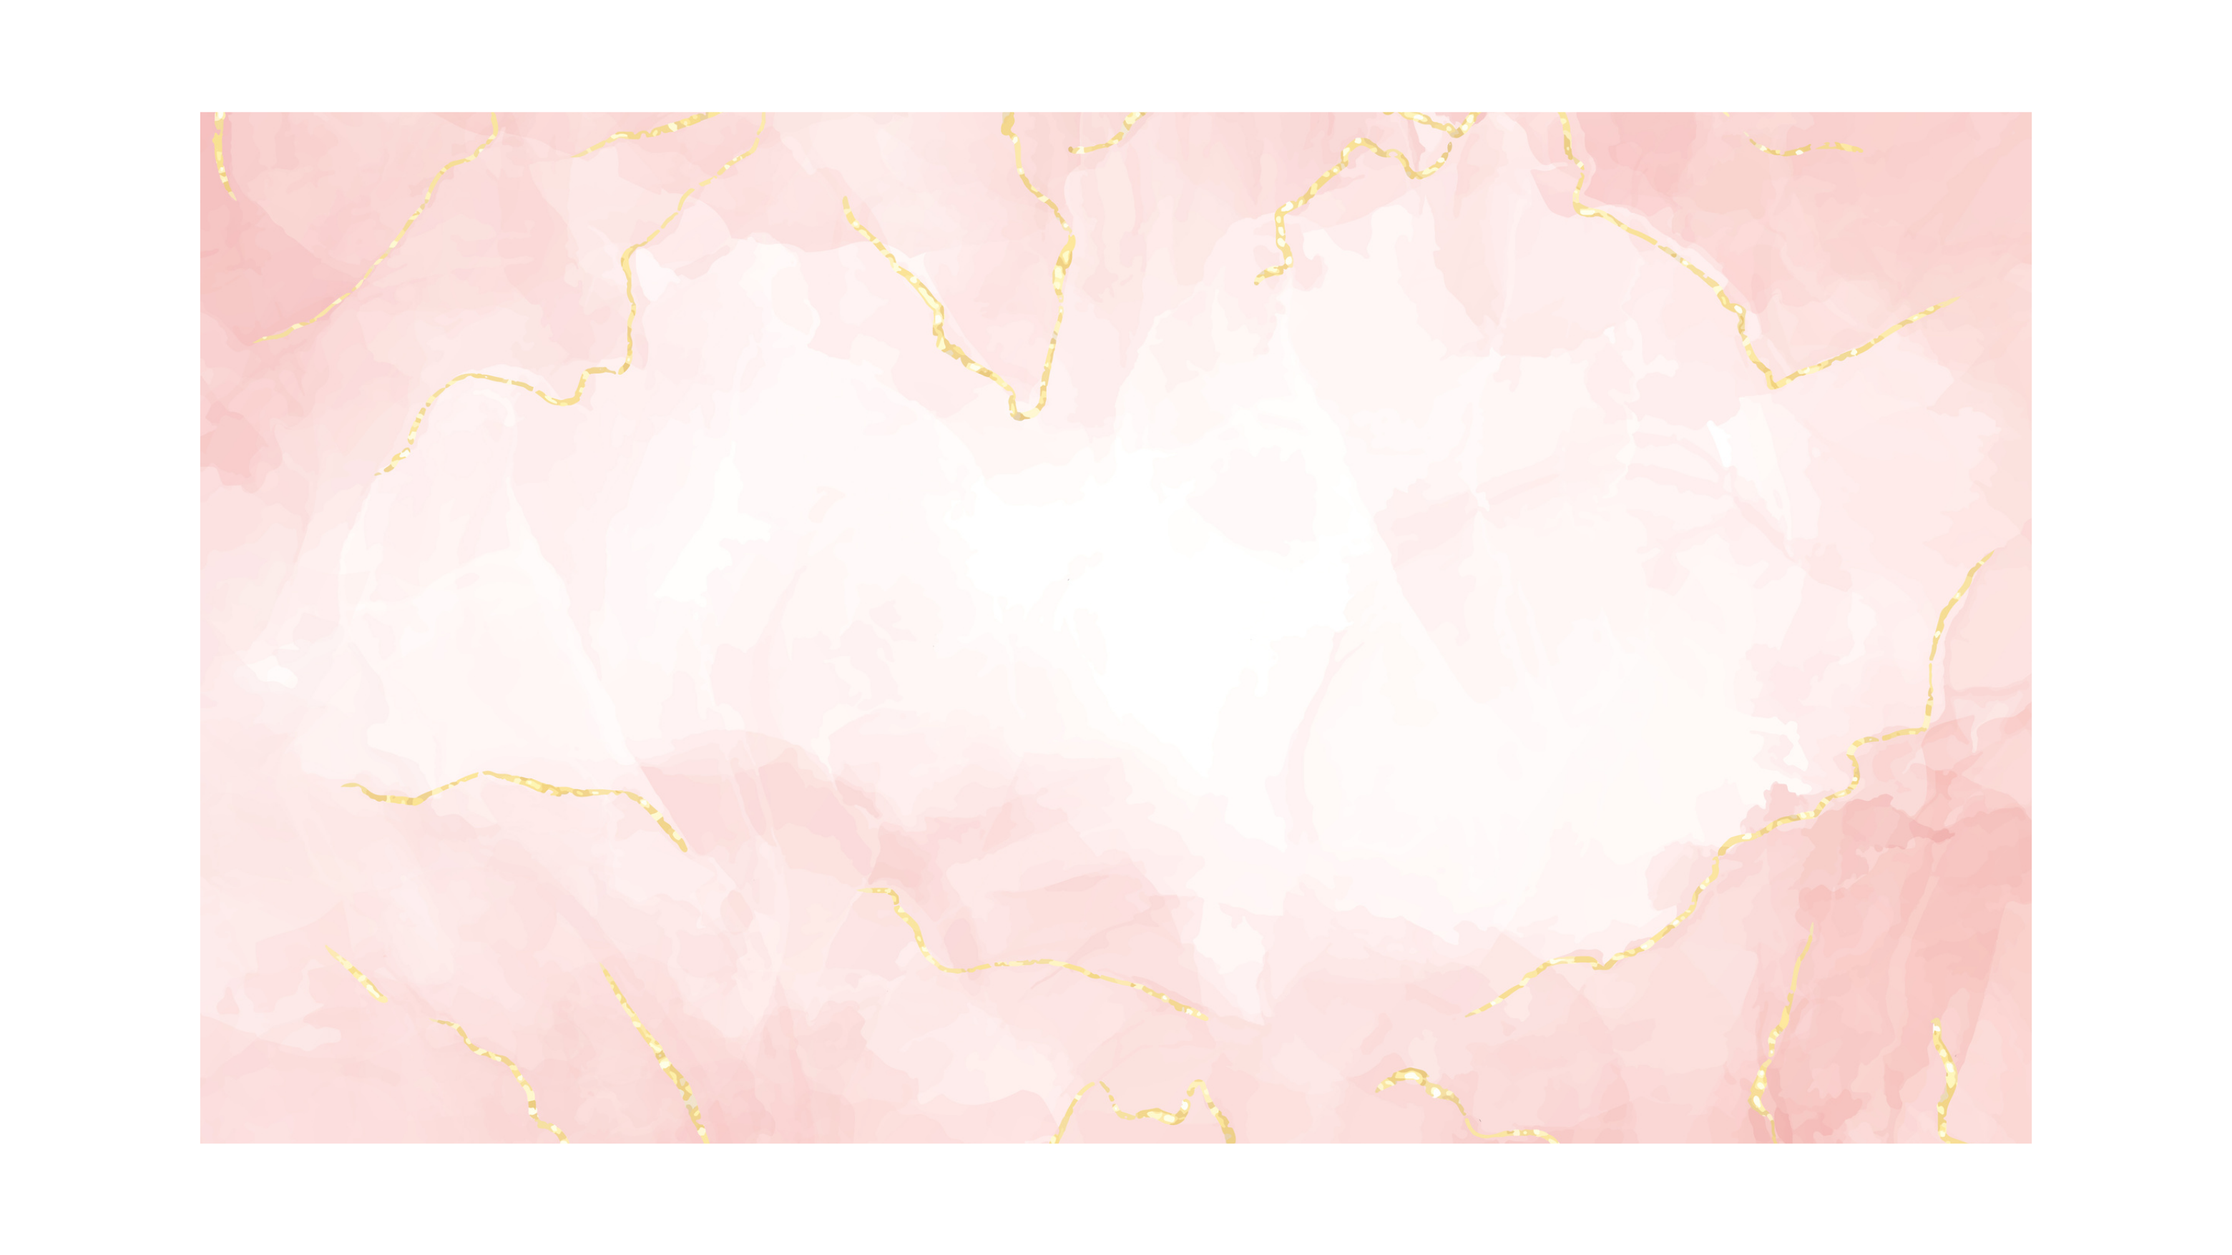
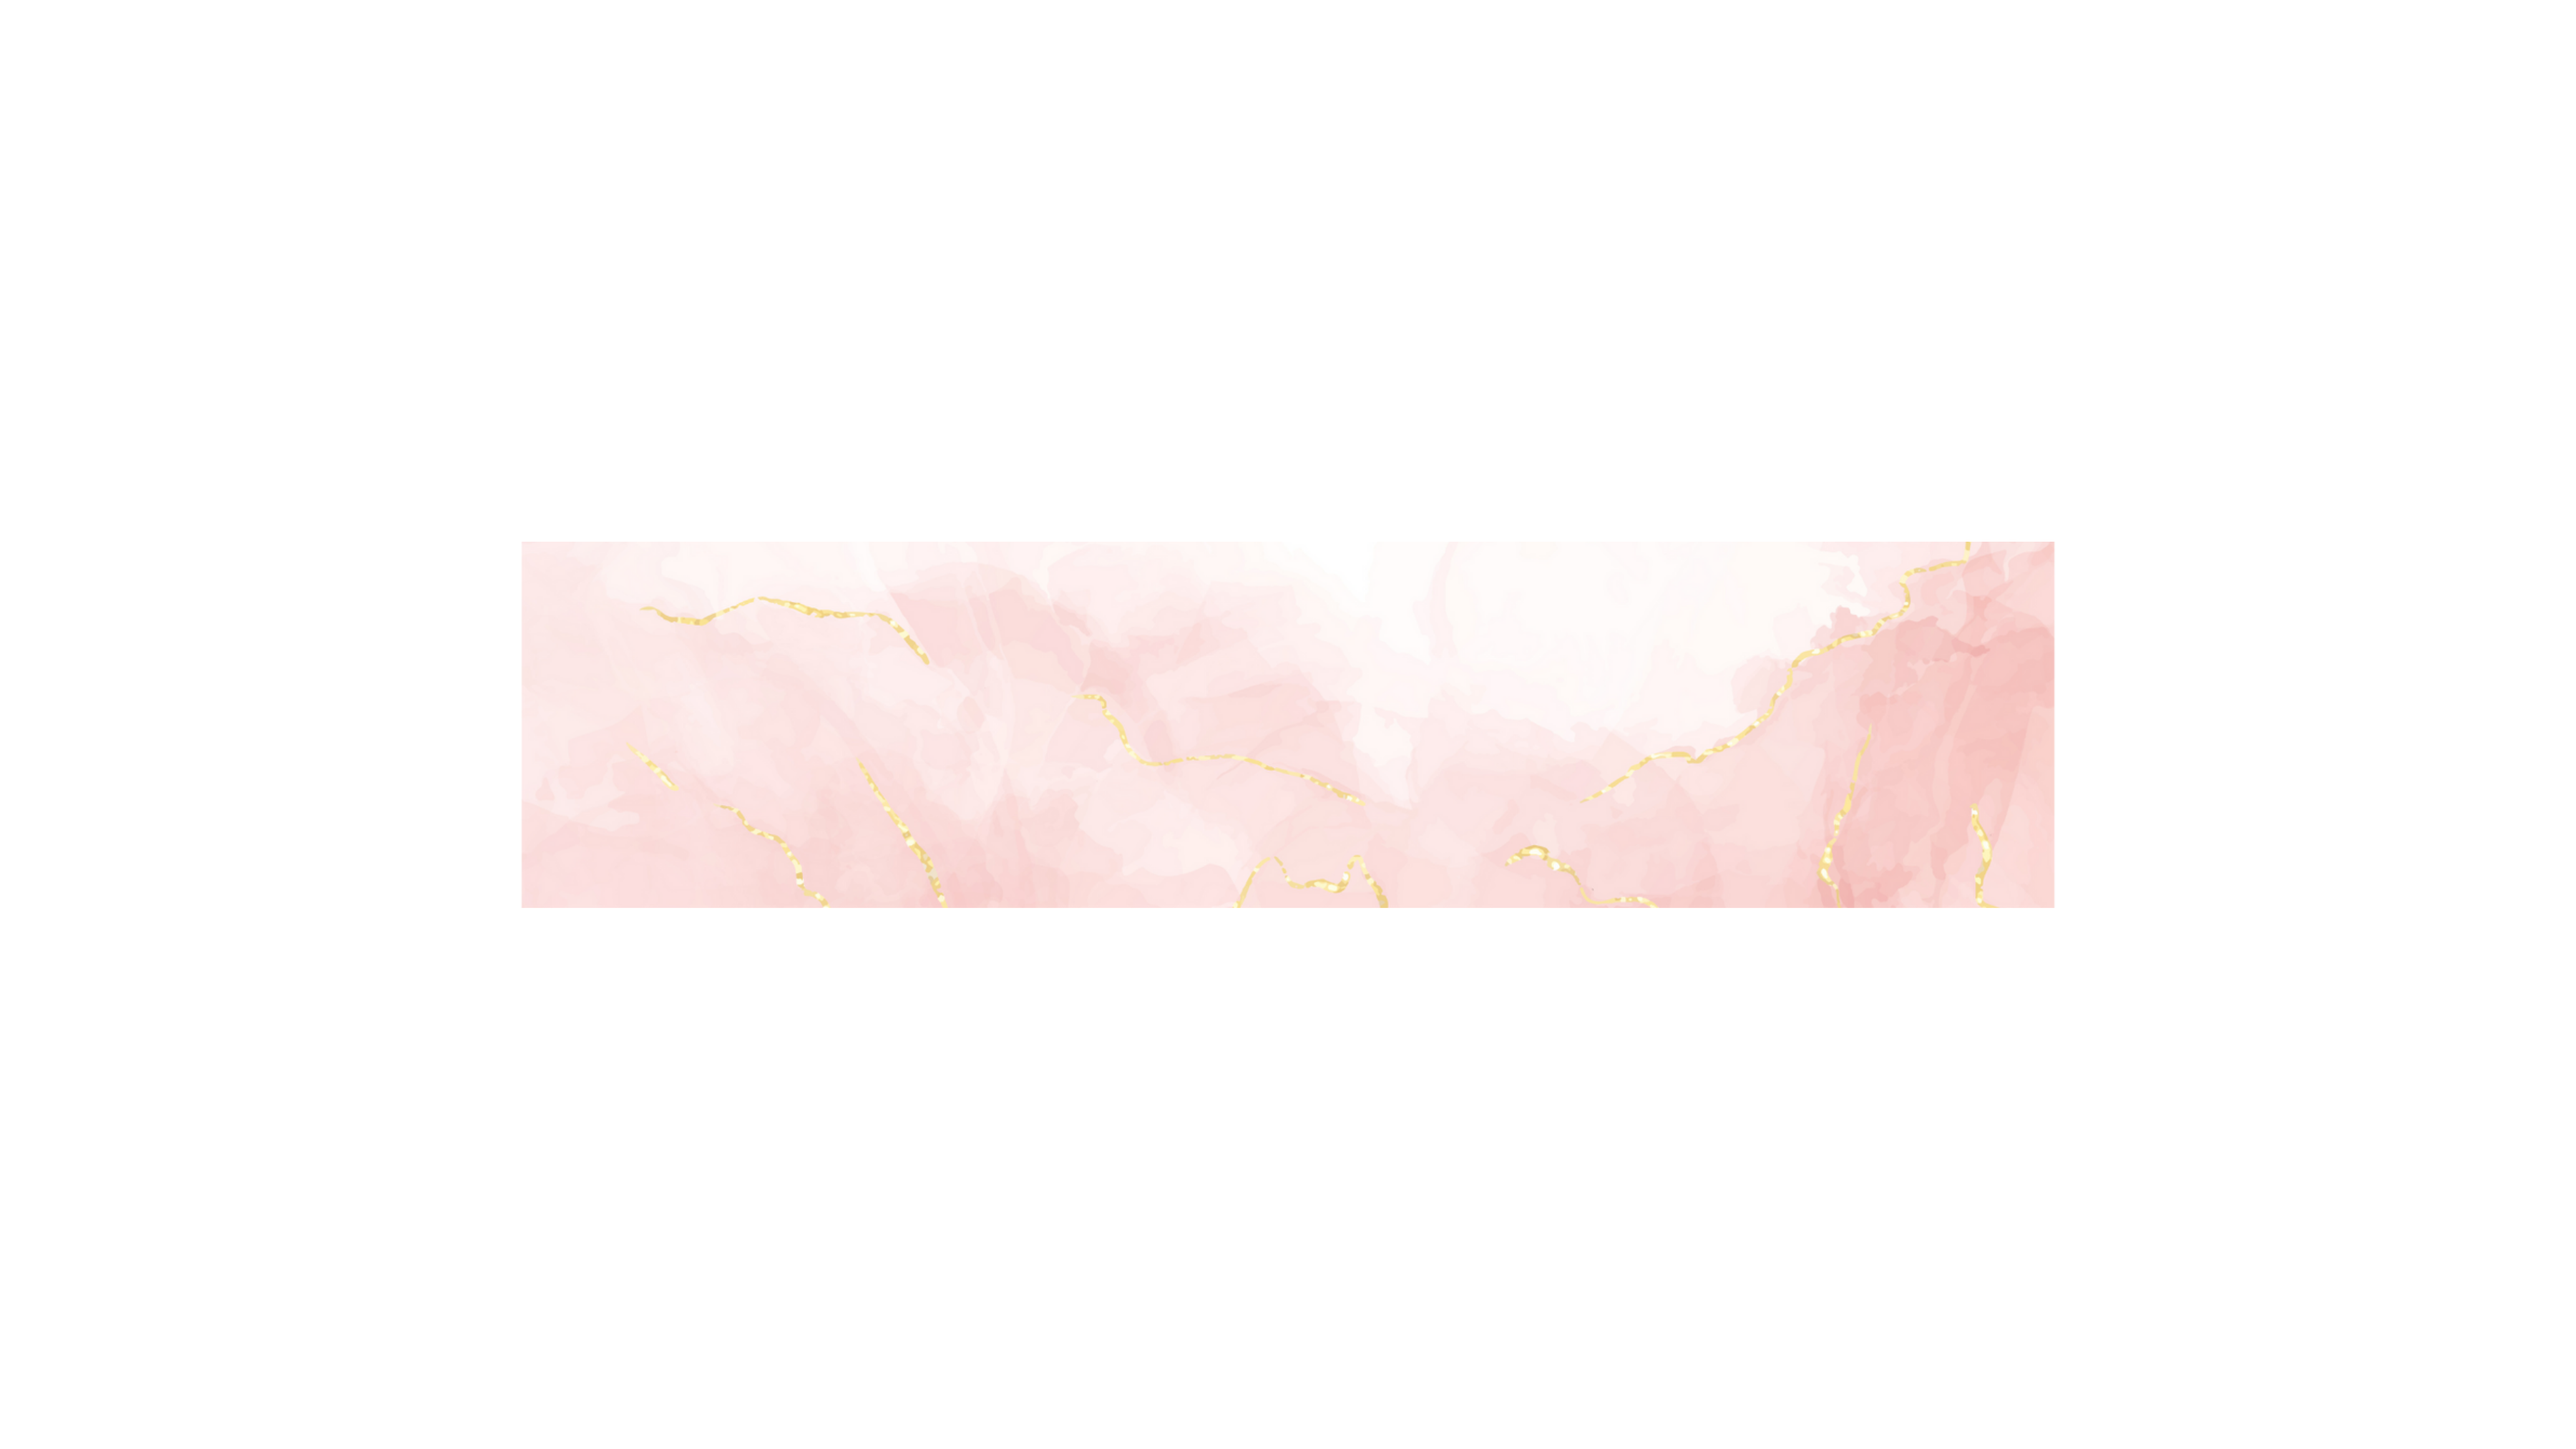
Modification en tete

diff --git a/resources/css/app.css b/resources/css/app.css
@@ -2,61 +2,69 @@
 * {
     margin: 0;
     padding: 0;
-    margin-left: -150px;
-    
+    box-sizing: border-box;
 }
 
-
 /* Styliser le header */
-header .image{
+/* Styliser le header */
+header .image {
     /* Image de fond */
     background-image: url('/public/image/ecriture.png'), url('/public/image/fondentete.png');
-    background-size: auto, cover; /* Couvrir l'espace disponible */
+    background-size: auto, auto; /* Couvrir l'espace disponible */
     background-position: center, center; /* Centrer les images */
     background-repeat: no-repeat, no-repeat; /* Ne pas répéter les images */
     height: 300px; /* Hauteur de l'en-tête */
-    width: 120%; /* Occupe toute la largeur de l'écran */
-    overflow: hidden; /* S'assurer que tout débordement est caché */
+    width: auto; /* Occupe toute la largeur de l'écran */
+    overflow: hidden, hidden; /* S'assurer que tout débordement est caché */
     display: flex; /* Utilisation de flexbox pour centrer le contenu */
     justify-content: center; /* Centrer horizontalement */
     align-items: center; /* Centrer verticalement */
+   
 }
 
-/* Réinitialiser les marges et paddings de html et body */
-html, body {
-    margin: 0;
-    padding: 0;
+/* Styliser le contenu de l'en-tête */
+.header-content {
+    /* Styles spécifiques au contenu de l'en-tête */
+    display: flex;
+    justify-content: center;
+    align-items: center;
     width: 100%;
-    height: 100%;
-    overflow-x: hidden; /* Eviter le débordement horizontal */
+    height: 100px;
+    border: 3px solid black;
 }
 
 /* Menu stylisé */
 .menu {
+    /* Styles spécifiques au menu */
     display: flex;
-    justify-content: space-around; /* Espacement égal entre les éléments */
-    align-items: center; /* Centrer verticalement */
-    width: 100%; /* S'étendre sur toute la largeur disponible */
+    justify-content: center; /* Centre les éléments horizontalement */
+    align-items: center; /* Centre les éléments verticalement */
+    width: 100%; /* Occupe toute la largeur disponible */
     padding: 0;
-    list-style-type: none; /* Supprime les puces par défaut */
+    text-decoration: none;        /* Suppression du soulignement */
+    background-color: #e8d9c6; 
+    margin-top: -40px;
+    background-size: auto;
+    
+}
+
+.menu ul {
+    display: flex;
+    justify-content: center; /* Centre les éléments horizontalement */
+    align-items: center; /* Centre les éléments verticalement */
+    gap: 20px; /* Espacement entre les éléments du menu */
 }
 
 .menu li {
-    padding: 10px 20px; /* Ajouter un padding pour espacer les éléments */
-    list-style-type: none; /* Supprime les puces par défaut */
-    display: flex;
-    background-size: cover;
-    width: 100%;
-}
-
-.menu li a {
-    text-decoration: none; /* Supprimer le soulignement des liens */
-    color: black; /* Couleur du texte */
-    font-size: 16px; /* Taille de la police */
-    list-style-type: none; /* Supprime les puces par défaut */
-}
-
-.menu a {
-    display:block;                /* Transformation en block */
-    min-width: 120px;             /* Largeur minimale des liens */
+    /* Styles spécifiques aux éléments li du menu */
+    padding: 10px 20px;
+    list-style-type: none; /* Supprimer le style de puce */
+    }
+    
+    .menu li a {
+        /* Styles spécifiques aux liens du menu */
+        text-decoration: none;
+        color: black;
+        font-size: 16px;
+        text-align: center     /* Alignements des liens dans le menu */
 }

diff --git a/resources/views/base.blade.php b/resources/views/base.blade.php
@@ -41,7 +41,7 @@
                     <div class="rendezvous">
                         <li>
                             <a href="{{ route('main.rendezvous') }}">Prendre rendez-vous</a>
-                            </li>
+                        </li>
                     </div> 
                     <div class="contact">
                         <li>
